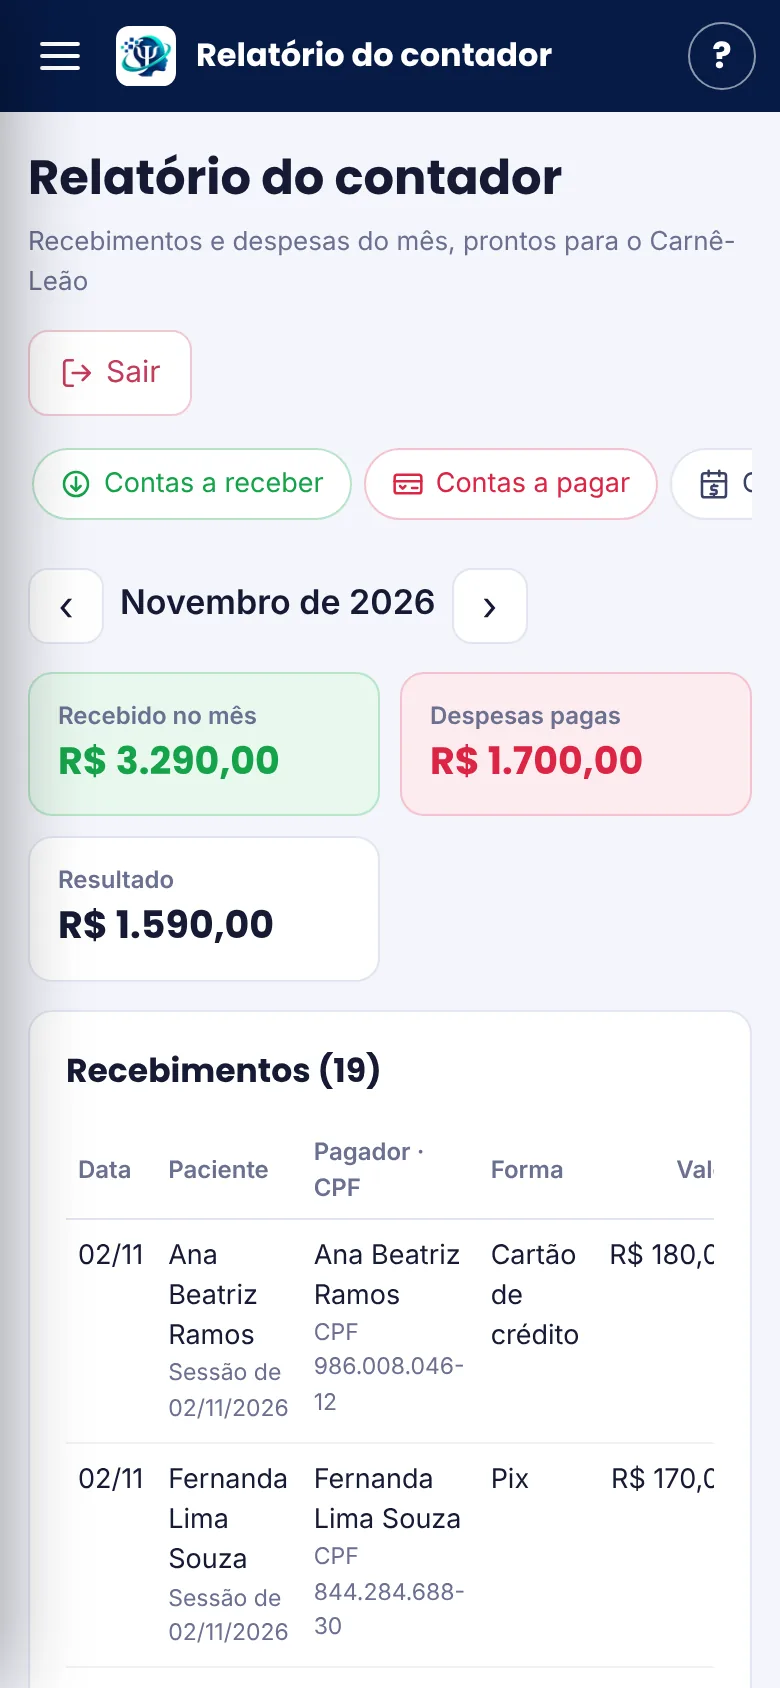
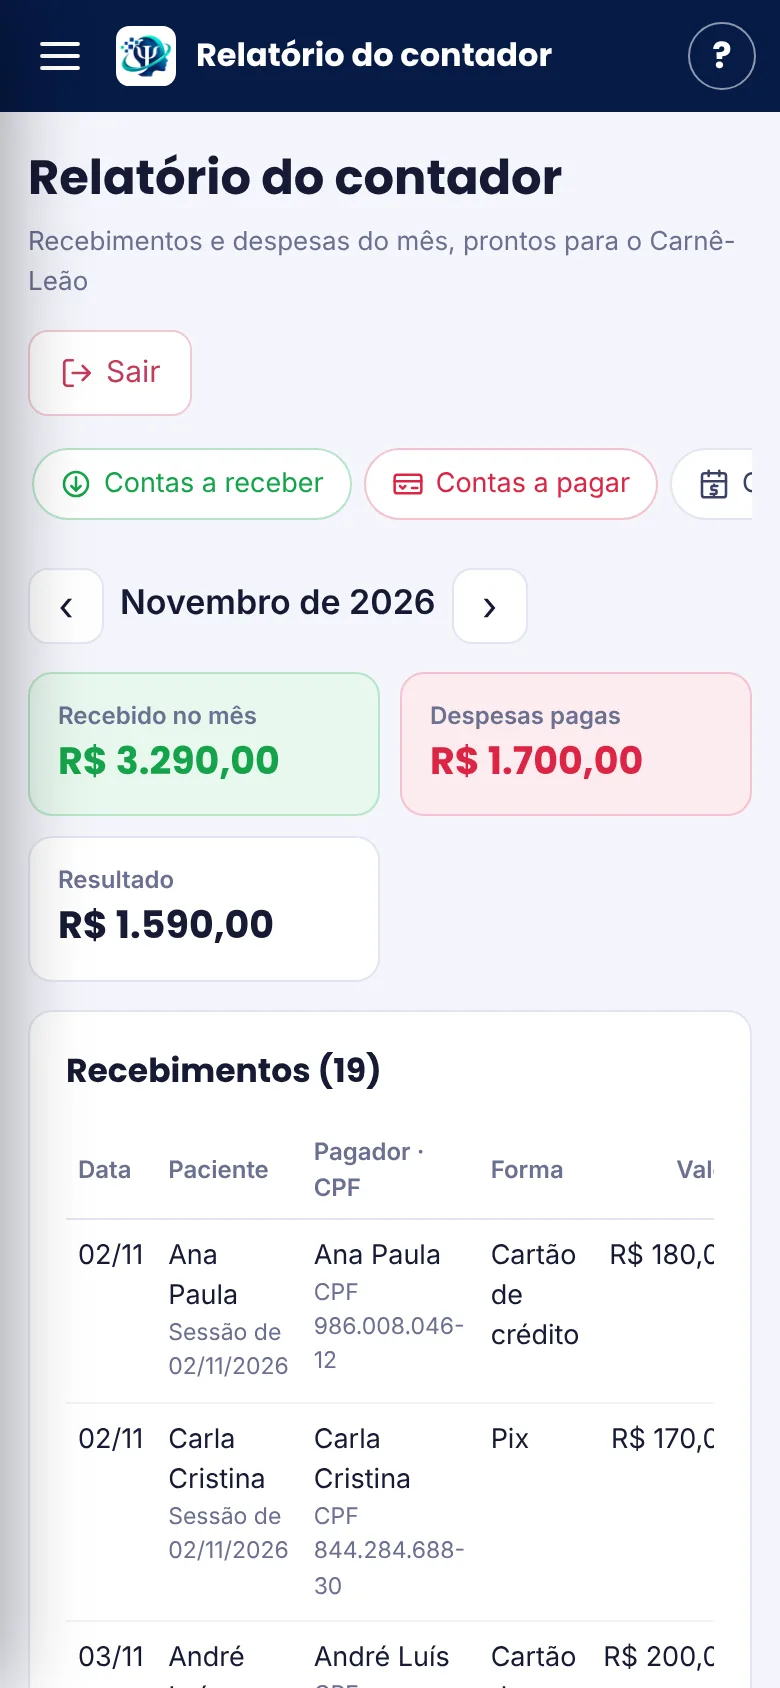
Site e demonstração: nomes genéricos nas telas (Ana Paula, André Luís…)
Claude-Session: https://claude.ai/code/session_01CG5mnCRdLm9dwswi4Bawab

diff --git a/app/demo.js b/app/demo.js
@@ -17,14 +17,14 @@
   }
 
   const PACIENTES = [
-    { nome: 'Ana Beatriz Ramos', idade: 34, prof: 'Analista financeira', cidade: 'São Paulo', uf: 'SP', mod: 'Presencial', valor: 180, sem: 12, freq: 7, hora: '09:00', dow: 1,
+    { nome: 'Ana Paula', idade: 34, prof: 'Analista financeira', cidade: 'São Paulo', uf: 'SP', mod: 'Presencial', valor: 180, sem: 12, freq: 7, hora: '09:00', dow: 1,
       queixa: 'Preocupação excessiva e difícil de controlar com trabalho e saúde da família, tensão muscular, irritabilidade e dificuldade para dormir há cerca de 8 meses.',
       hist: 'Procurou atendimento por indicação do clínico geral após episódios de taquicardia sem causa orgânica. Relata aumento de cobranças no trabalho após promoção.',
       diag: [[2, 'Avaliação psicológica', '', 'Entrevista clínica semiestruturada, BAI', 'Escore no BAI compatível com ansiedade moderada. Preocupações persistentes em múltiplos domínios, com prejuízo no sono e na concentração.'],
              [3, 'Diagnóstico', 'F41.1', 'Entrevista clínica, BAI, critérios diagnósticos', 'Quadro compatível com Transtorno de Ansiedade Generalizada. Devolutiva realizada com a paciente.']],
       obj: [['Curto prazo', 'Reconhecer gatilhos e sinais iniciais de ansiedade.', 'Alcançado'], ['Médio prazo', 'Reduzir a ruminação noturna e melhorar a qualidade do sono.', 'Em andamento'], ['Longo prazo', 'Desenvolver estratégias de enfrentamento para demandas do trabalho.', 'Em andamento']],
       notas: ['Acolhimento e escuta da demanda. Paciente colaborativa, relata cansaço e preocupação constante.', 'Aplicação do BAI e investigação do histórico. Identificadas situações de trabalho como principais gatilhos.', 'Devolutiva da avaliação. Psicoeducação sobre ansiedade e ciclo da preocupação.', 'Treino de respiração diafragmática e registro de pensamentos. Boa adesão às tarefas.', 'Trabalhada a reestruturação de pensamentos catastróficos. Relata melhora no sono em alguns dias.', 'Revisão do registro semanal. Paciente conseguiu delegar tarefas no trabalho, com menos culpa.'] },
-    { nome: 'Carlos Eduardo Nunes', idade: 45, prof: 'Gerente comercial', cidade: 'Campinas', uf: 'SP', mod: 'Presencial', valor: 200, sem: 9, freq: 7, hora: '18:00', dow: 2,
+    { nome: 'André Luís', idade: 45, prof: 'Gerente comercial', cidade: 'Campinas', uf: 'SP', mod: 'Presencial', valor: 200, sem: 9, freq: 7, hora: '18:00', dow: 2,
       queixa: 'Tristeza persistente, perda de interesse por atividades antes prazerosas, cansaço e isolamento social há aproximadamente 4 meses.',
       hist: 'Separação conjugal há um ano. Refere diminuição do rendimento no trabalho e afastamento dos amigos. Nega ideação suicida no momento da avaliação.',
       diag: [[2, 'Avaliação psicológica', '', 'Entrevista clínica, BDI-II', 'Escore no BDI-II compatível com sintomas depressivos moderados. Avaliado risco: sem ideação suicida atual, rede de apoio presente.'],
@@ -32,8 +32,8 @@
       obj: [['Curto prazo', 'Retomar ao menos duas atividades prazerosas por semana.', 'Em andamento'], ['Médio prazo', 'Reorganizar a rotina de sono e alimentação.', 'Em andamento'], ['Longo prazo', 'Elaborar o processo de separação e fortalecer a rede social.', 'Em andamento']],
       enc: ['Psiquiatria — Dr(a). Fernando Alves (fictício)', 'Avaliação para possível tratamento medicamentoso', 'Iniciou acompanhamento psiquiátrico'],
       notas: ['Acolhimento. Paciente relata desânimo e dificuldade para sair de casa.', 'Aplicação do BDI-II e avaliação de risco. Combinado plano de segurança.', 'Devolutiva e encaminhamento para avaliação psiquiátrica. Paciente aceitou.', 'Ativação comportamental: lista de atividades prazerosas. Retomou caminhadas.', 'Relata início do acompanhamento psiquiátrico. Humor um pouco mais estável.', 'Trabalhados sentimentos ligados à separação. Choro durante a sessão, com boa elaboração.'] },
-    { nome: 'Lucas Ferreira', idade: 9, prof: 'Estudante (4º ano)', cidade: 'Santos', uf: 'SP', mod: 'Presencial', valor: 160, sem: 10, freq: 7, hora: '14:00', dow: 3,
-      resp: { nome: 'Juliana Ferreira', parentesco: 'Mãe', telefone: '13998762210', email: 'juliana.ferreira@exemplo.com' },
+    { nome: 'Lucas Gabriel', idade: 9, prof: 'Estudante (4º ano)', cidade: 'Santos', uf: 'SP', mod: 'Presencial', valor: 160, sem: 10, freq: 7, hora: '14:00', dow: 3,
+      resp: { nome: 'Patrícia Helena', parentesco: 'Mãe', telefone: '13998762210', email: 'patricia.helena@exemplo.com' },
       queixa: 'Encaminhado pela escola por desatenção, agitação em sala e dificuldade para concluir tarefas. Mãe relata impulsividade em casa.',
       hist: 'Desenvolvimento neuropsicomotor dentro do esperado. Queixas escolares desde o 2º ano. Relatório da professora anexado aos documentos.',
       diag: [[3, 'Avaliação psicológica', '', 'Entrevista com responsável, observação lúdica, SNAP-IV (pais e professora)', 'Escores elevados em desatenção e hiperatividade/impulsividade, em mais de um contexto (casa e escola).'],
@@ -42,33 +42,33 @@
       enc: ['Neuropediatria — Dra. Paula Mendes (fictícia)', 'Avaliação neurológica e confirmação diagnóstica', ''],
       sessResp: true,
       notas: ['Entrevista inicial com a mãe: histórico, rotina e queixas escolares.', 'Primeiro contato com Lucas por meio de jogos. Criança comunicativa, se distrai com facilidade.', 'Observação lúdica e aplicação do SNAP-IV com a mãe. Solicitado SNAP-IV à escola.', 'Devolutiva para a mãe e encaminhamento à neuropediatria.', 'Jogos de regras para treino de espera e tolerância à frustração. Boa participação.', 'Sessão com a responsável: montagem de quadro de rotina visual para casa.'] },
-    { nome: 'Mariana Costa', idade: 28, prof: 'Designer', cidade: 'Rio de Janeiro', uf: 'RJ', mod: 'On-line', valor: 170, sem: 8, freq: 7, hora: '19:30', dow: 4,
+    { nome: 'Maria Clara', idade: 28, prof: 'Designer', cidade: 'Rio de Janeiro', uf: 'RJ', mod: 'On-line', valor: 170, sem: 8, freq: 7, hora: '19:30', dow: 4,
       queixa: 'Crises súbitas de medo intenso com falta de ar, tremores e sensação de morte iminente. Passou a evitar transporte público.',
       hist: 'Primeira crise há 6 meses no metrô. Três idas ao pronto-socorro com exames normais. Trabalha em home office desde então.',
       diag: [[2, 'Diagnóstico', 'F41.0', 'Entrevista clínica, inventário de sintomas de pânico', 'Ataques de pânico recorrentes e inesperados, com preocupação persistente com novas crises e evitação. Compatível com Transtorno de Pânico.']],
       obj: [['Curto prazo', 'Compreender a crise de pânico e reduzir o medo das sensações.', 'Alcançado'], ['Médio prazo', 'Exposição gradual ao transporte público.', 'Em andamento']],
       notas: ['Acolhimento on-line. Paciente descreve as crises e o medo de novas ocorrências.', 'Investigação diagnóstica e psicoeducação sobre o ciclo do pânico.', 'Exposição interoceptiva leve na sessão (respiração acelerada). Tolerou bem.', 'Montada hierarquia de exposição. Primeiro passo: ir até a estação de metrô.', 'Relata ter ido à estação acompanhada, sem crise. Ansiedade 6/10.', 'Fez um trajeto curto sozinha. Ansiedade 4/10. Muito motivada.'] },
-    { nome: 'Roberto Almeida', idade: 52, prof: 'Professor', cidade: 'Belo Horizonte', uf: 'MG', mod: 'Presencial', valor: 180, sem: 14, freq: 14, hora: '10:00', dow: 5,
+    { nome: 'José Carlos', idade: 52, prof: 'Professor', cidade: 'Belo Horizonte', uf: 'MG', mod: 'Presencial', valor: 180, sem: 14, freq: 14, hora: '10:00', dow: 5,
       queixa: 'Dificuldade em lidar com a morte da esposa há 7 meses. Tristeza intensa, culpa e dificuldade de retomar a rotina.',
       hist: 'Esposa faleceu após doença prolongada; foi o principal cuidador. Dois filhos adultos, que moram em outra cidade.',
       diag: [[2, 'Avaliação psicológica', 'Z63.4', 'Entrevista clínica, Inventário de Luto Complicado', 'Reação de luto com intensidade elevada, sem critérios para luto prolongado até o momento. Acompanhar evolução.']],
       obj: [['Curto prazo', 'Dar espaço para a expressão do luto e da culpa.', 'Alcançado'], ['Médio prazo', 'Retomar atividades de trabalho e convívio.', 'Em andamento'], ['Longo prazo', 'Ressignificar a relação com a esposa e construir novos projetos.', 'Em andamento']],
       notas: ['Acolhimento. Paciente fala da esposa e dos meses de cuidado.', 'Aplicação do inventário. Trabalhada a culpa por não ter percebido a doença antes.', 'Elaboração por meio de lembranças e fotografias trazidas pelo paciente.', 'Relata ter voltado a dar aulas em meio período. Dias difíceis na data do aniversário dela.', 'Planejamento de visita aos filhos. Expressa vontade de voltar ao coral.'] },
-    { nome: 'Fernanda Lima Souza', idade: 31, prof: 'Enfermeira', cidade: 'Curitiba', uf: 'PR', mod: 'Híbrido', valor: 170, sem: 7, freq: 7, hora: '20:00', dow: 1,
+    { nome: 'Carla Cristina', idade: 31, prof: 'Enfermeira', cidade: 'Curitiba', uf: 'PR', mod: 'Híbrido', valor: 170, sem: 7, freq: 7, hora: '20:00', dow: 1,
       queixa: 'Exaustão física e emocional, distanciamento dos pacientes e sensação de ineficácia no trabalho em UTI.',
       hist: 'Plantões de 12 horas com frequentes dobras. Afastada por 15 dias pelo médico do trabalho. Relata dificuldade em se desligar do trabalho.',
       diag: [[2, 'Avaliação psicológica', 'Z73.0', 'Entrevista clínica, MBI (Maslach Burnout Inventory)', 'Escores elevados em exaustão emocional e despersonalização, com baixa realização profissional. Compatível com síndrome de burnout.']],
       obj: [['Curto prazo', 'Estabelecer limites para horas extras e descanso.', 'Em andamento'], ['Médio prazo', 'Recuperar o sentido do trabalho e atividades fora dele.', 'Em andamento']],
       notas: ['Acolhimento. Paciente chorosa, relata não aguentar mais os plantões.', 'Aplicação do MBI e mapeamento da rotina.', 'Devolutiva. Construção de plano de autocuidado e limites.', 'Relata ter recusado uma dobra pela primeira vez. Culpa, mas alívio.', 'Sessão on-line. Discutida possibilidade de mudança de setor.'] },
-    { nome: 'Pedro Henrique Martins', idade: 15, prof: 'Estudante (1º ano do ensino médio)', cidade: 'Porto Alegre', uf: 'RS', mod: 'Presencial', valor: 160, sem: 8, freq: 7, hora: '16:00', dow: 2,
-      resp: { nome: 'Marcos Martins', parentesco: 'Pai', telefone: '51997654321', email: 'marcos.martins@exemplo.com' },
+    { nome: 'Pedro Henrique', idade: 15, prof: 'Estudante (1º ano do ensino médio)', cidade: 'Porto Alegre', uf: 'RS', mod: 'Presencial', valor: 160, sem: 8, freq: 7, hora: '16:00', dow: 2,
+      resp: { nome: 'Paulo Roberto', parentesco: 'Pai', telefone: '51997654321', email: 'paulo.roberto@exemplo.com' },
       queixa: 'Medo intenso de falar em público e de ser avaliado pelos colegas. Faltou a apresentações e evita o intervalo na escola.',
       hist: 'Mudou de escola no início do ano. Sempre foi tímido, mas os sintomas se intensificaram. Bom desempenho escolar.',
       diag: [[2, 'Avaliação psicológica', '', 'Entrevista com adolescente e pai, LSAS-CA', 'Escore elevado de ansiedade social, com evitação significativa de situações de exposição.'],
              [3, 'Diagnóstico', 'F40.1', 'LSAS-CA, entrevista clínica', 'Quadro compatível com Fobia Social (Transtorno de Ansiedade Social).']],
       obj: [['Curto prazo', 'Identificar pensamentos automáticos em situações sociais.', 'Alcançado'], ['Médio prazo', 'Participar de uma apresentação em sala.', 'Em andamento']],
       notas: ['Entrevista com o pai e com o adolescente. Pedro fala pouco, mas colabora.', 'Aplicação da LSAS-CA. Pedro descreve medo de "travar" e ser zoado.', 'Devolutiva para Pedro e para o pai. Psicoeducação sobre ansiedade social.', 'Role-play de apresentação curta na sessão. Ansiedade alta, mas concluiu.', 'Relata ter conversado com dois colegas no intervalo. Orgulhoso.'] },
-    { nome: 'Juliana Prado', idade: 39, prof: 'Advogada', cidade: 'Brasília', uf: 'DF', mod: 'On-line', valor: 200, sem: 11, freq: 7, hora: '08:00', dow: 3,
+    { nome: 'Júlia Maria', idade: 39, prof: 'Advogada', cidade: 'Brasília', uf: 'DF', mod: 'On-line', valor: 200, sem: 11, freq: 7, hora: '08:00', dow: 3,
       queixa: 'Pensamentos intrusivos sobre contaminação e necessidade de lavar as mãos repetidamente, chegando a mais de duas horas por dia.',
       hist: 'Sintomas desde a adolescência, com piora nos últimos dois anos. Já fez uso de medicação prescrita por psiquiatra, que mantém.',
       diag: [[2, 'Avaliação psicológica', '', 'Entrevista clínica, Y-BOCS', 'Escore no Y-BOCS na faixa grave. Obsessões de contaminação e compulsões de limpeza, com insight preservado.'],
@@ -76,13 +76,13 @@
              [8, 'Reavaliação', 'F42.2', 'Y-BOCS', 'Redução de 30% no escore do Y-BOCS em relação à avaliação inicial.']],
       obj: [['Curto prazo', 'Montar hierarquia de exposição.', 'Alcançado'], ['Médio prazo', 'Reduzir o tempo diário de rituais para menos de 30 minutos.', 'Em andamento']],
       notas: ['Acolhimento on-line. Paciente descreve rituais e o impacto na rotina.', 'Aplicação do Y-BOCS e mapeamento das situações temidas.', 'Devolutiva e explicação da exposição com prevenção de resposta.', 'Primeira exposição: tocar maçaneta sem lavar as mãos por 10 minutos.', 'Exposições diárias realizadas em casa. Ansiedade diminui mais rápido.', 'Reavaliação com Y-BOCS: melhora significativa. Paciente animada.'] },
-    { nome: 'Gabriel Souza Rocha', idade: 26, prof: 'Motoboy', cidade: 'Recife', uf: 'PE', mod: 'Presencial', valor: 150, sem: 6, freq: 7, hora: '17:00', dow: 4,
+    { nome: 'João Vitor', idade: 26, prof: 'Motoboy', cidade: 'Recife', uf: 'PE', mod: 'Presencial', valor: 150, sem: 6, freq: 7, hora: '17:00', dow: 4,
       queixa: 'Pesadelos, lembranças intrusivas e sobressaltos após acidente de trânsito grave há 5 meses. Não consegue voltar a pilotar.',
       hist: 'Acidente com fratura de perna; amigo que estava na garupa ficou gravemente ferido. Afastado pelo INSS.',
       diag: [[2, 'Diagnóstico', 'F43.1', 'Entrevista clínica, PCL-5', 'Escore no PCL-5 acima do ponto de corte, com revivência, evitação, alterações de humor e hiperexcitação. Compatível com Transtorno de Estresse Pós-Traumático.']],
       obj: [['Curto prazo', 'Estabilização: técnicas de aterramento e regulação.', 'Alcançado'], ['Médio prazo', 'Processamento da memória traumática.', 'Em andamento']],
       notas: ['Acolhimento. Paciente relata o acidente com muita emoção.', 'Aplicação do PCL-5. Ensinadas técnicas de aterramento para os sobressaltos.', 'Relata pesadelos menos frequentes. Construída linha da vida.', 'Início do processamento do trauma. Sessão intensa, paciente saiu estável.'] },
-    { nome: 'Helena Duarte', idade: 67, prof: 'Aposentada', cidade: 'Florianópolis', uf: 'SC', mod: 'Presencial', valor: 170, sem: 16, freq: 7, hora: '11:00', dow: 5, max: 10, alta: true,
+    { nome: 'Helena Beatriz', idade: 67, prof: 'Aposentada', cidade: 'Florianópolis', uf: 'SC', mod: 'Presencial', valor: 170, sem: 16, freq: 7, hora: '11:00', dow: 5, max: 10, alta: true,
       queixa: 'Dificuldade para iniciar e manter o sono há mais de um ano, com preocupação e cansaço durante o dia.',
       hist: 'Insônia iniciada após aposentadoria. Uso ocasional de indutor do sono por conta própria, já comunicado ao médico.',
       diag: [[2, 'Avaliação psicológica', '', 'Entrevista clínica, ISI (Índice de Gravidade de Insônia), diário do sono', 'Insônia moderada, com hábitos de sono inadequados e preocupação noturna.'],
